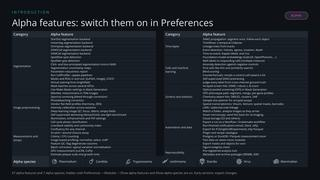
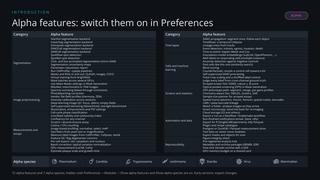
List 769, 800, 790 and 772 on the alpha slide, fit 72 rows above the species strip, and pin the republished deck at 9a533e5044

diff --git a/tests/test_alpha_deck_registry.py b/tests/test_alpha_deck_registry.py
@@ -31,7 +31,10 @@ def test_the_published_alpha_page_covers_the_current_registry():
     # 770 (2026-11-04): TVN as a batch_correction choice makes 66.
     # 752 (2026-11-05): the OPS phenotype path makes 67.
     # 803 (2026-11-06): the GPU memory budget settings make 68.
-    assert deck._check_registry(ROOT / "spacr/settings.py") == 68
+    # 2026-11-07: 769 (per-cell export), 800 (size floors from pixel size),
+    # 790 (label image import) and 772 (fixed crop scaling, shuffled-label
+    # control) make 72.
+    assert deck._check_registry(ROOT / "spacr/settings.py") == 72
     # 710: the published PDF is fetched from the pinned dataset revision.
     media_spec = importlib.util.spec_from_file_location("fetch_docs_media", ROOT / "tools/fetch_docs_media.py")
     media = importlib.util.module_from_spec(media_spec)
@@ -43,7 +46,7 @@ def test_the_published_alpha_page_covers_the_current_registry():
             assert unicodedata.normalize("NFKC", caption) in text
     for _, name in deck.SPECIES:
         assert name in text
-    assert "68 alpha features and 7 alpha species" in text
+    assert "72 alpha features and 7 alpha species" in text
 
 
 def test_unknown_registry_entry_refuses_before_touching_assets(tmp_path):
@@ -85,7 +88,7 @@ def test_refresh_preserves_other_pages_and_renders_searchable_text(tmp_path):
     assert len(after.pages) == 3
     assert [float(page.mediabox.width) for page in after.pages] == [100, 960, 200]
     assert after.metadata.title == "Keep this title"
-    assert "68 alpha features" in " ".join(after.pages[1].extract_text().split())
+    assert "72 alpha features" in " ".join(after.pages[1].extract_text().split())
     assert after.pages[0].get_contents() is None
     assert after.pages[2].get_contents() is None
     assert Image.open(tmp_path / "1.jpg").size == (3200, 1800)

diff --git a/tools/refresh_alpha_deck.py b/tools/refresh_alpha_deck.py
@@ -56,6 +56,8 @@ GROUPS = (
         (536, "Scratch / wound-closure assay"),
         (542, "Colony / CFU counting"),
         (547, "Image-based profiling: normalise, select, mAP"),
+        (800, "Size filters from pixel size or magnification"),
+        (790, "Measure label images from CellProfiler, Cellpose, ilastik"),
         (791, "Feature QC: flag degenerate columns"),
         (769, "Per-cell export: cell, cytoplasm and nucleus"),
         (770, "Batch correction: typical variation normalisation"),
@@ -77,6 +79,7 @@ GROUPS = (
         (544, "Blind scoring"),
         (564, "Counterfactuals: morph a control cell toward a hit"),
         (561, "Self-supervised DINO pretraining"),
+        (772, "Fixed crop scaling and a shuffled-label control"),
         (470, "Judge every label from cross-channel ground truth"),
     )),
     ("Screens and statistics", (
@@ -212,7 +215,10 @@ def _draw_pdf(target, count, page_size):
         painter.setBrush(QColor("#222932"))
         painter.drawRoundedRect(QRectF(2850, 118, 230, 76), 38, 38)
         label("ALPHA", 2910, 123, 160, 64, 32, "#d63fa1", True)
-        row_height = 36
+        # Rows shrink from 36 px so the longer column ends above the species strip.
+        longest = max(sum(len(rows) for _, rows in column)
+                      for column in (GROUPS[:3], GROUPS[3:]))
+        row_height = min(36, int((1545 - 375) // longest))
         for x, groups in ((120, GROUPS[:3]), (1640, GROUPS[3:])):
             painter.fillRect(QRectF(x, 310, 1440, 65), QColor("#222932"))
             label("Category", x + 14, 310, 345, 65, 34, bold=True)
